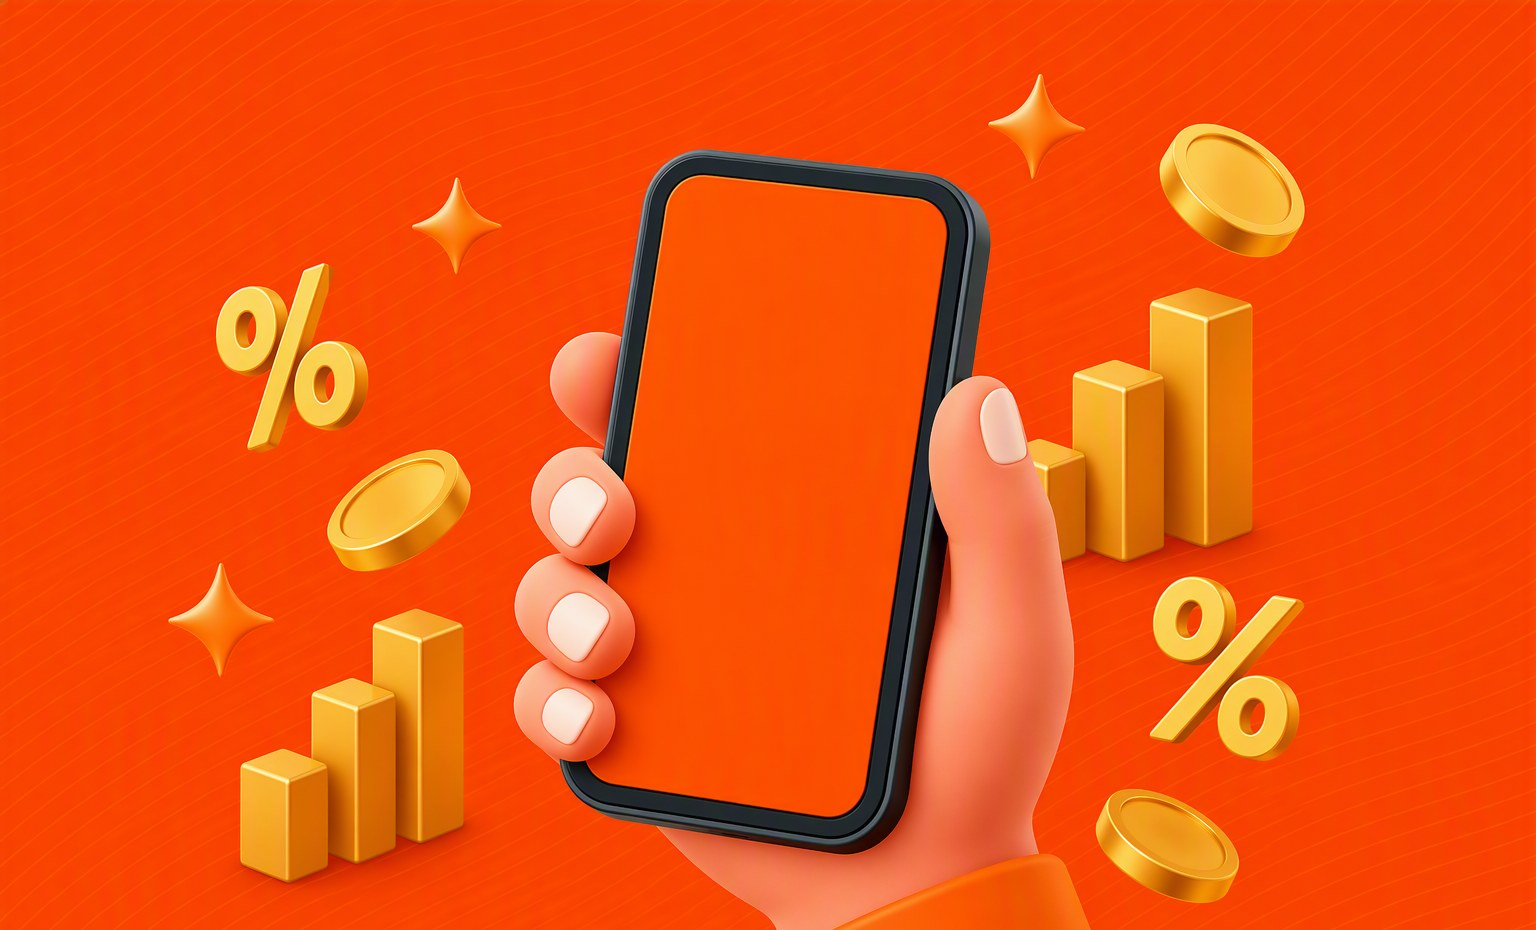
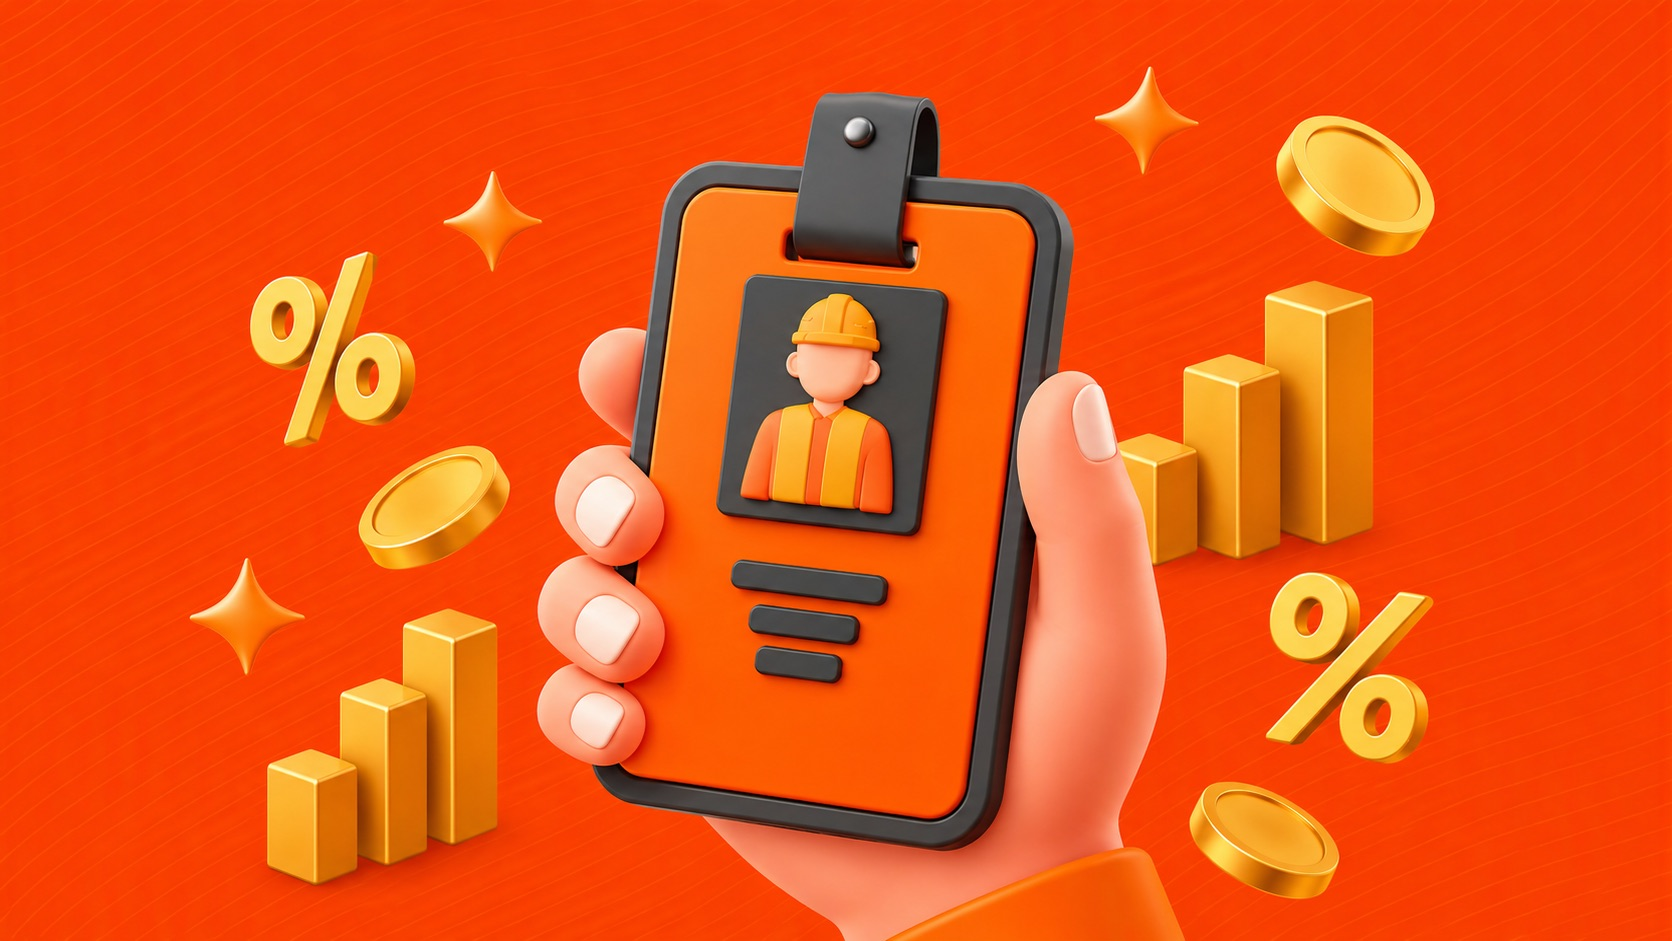
Update alt text for the swapped CLT product image
Direction confirmed the app.jpg replacement (a hand holding a worker ID
badge with hard hat, percentage and growth-chart icons) was intentional.
Rewrote the alt text to describe what's actually in the new image instead
of the previous generic wording, and verified it renders cleanly at the
CLT product page (aspect ratio close enough to its siblings, and the
image container uses h-auto w-full with no forced crop, so the shape
difference doesn't affect layout).

cta.jpg's deletion, still present locally, remains unconfirmed and is left
out of this commit.

diff --git a/apps/site/src/lib/produtos.ts b/apps/site/src/lib/produtos.ts
@@ -124,7 +124,7 @@ export const PRODUTOS: Record<ProdutoId, Produto> = {
     ],
     imagem: "/images/app.jpg",
     imagemAlt:
-      "Ilustração PegPay representando trabalhador com carteira assinada e crédito consignado",
+      "Ilustração PegPay: mão segura um crachá digital de trabalhador com capacete, cercado por ícones de porcentagem e gráficos de crescimento, representando o crédito consignado CLT",
   },
 
   garantia: {
